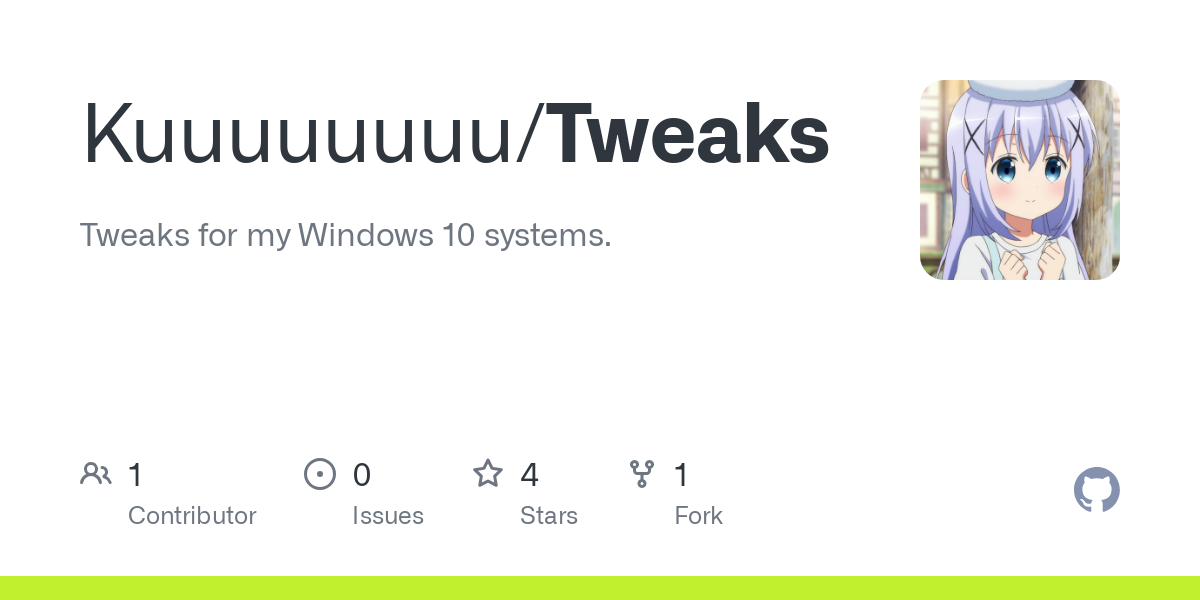
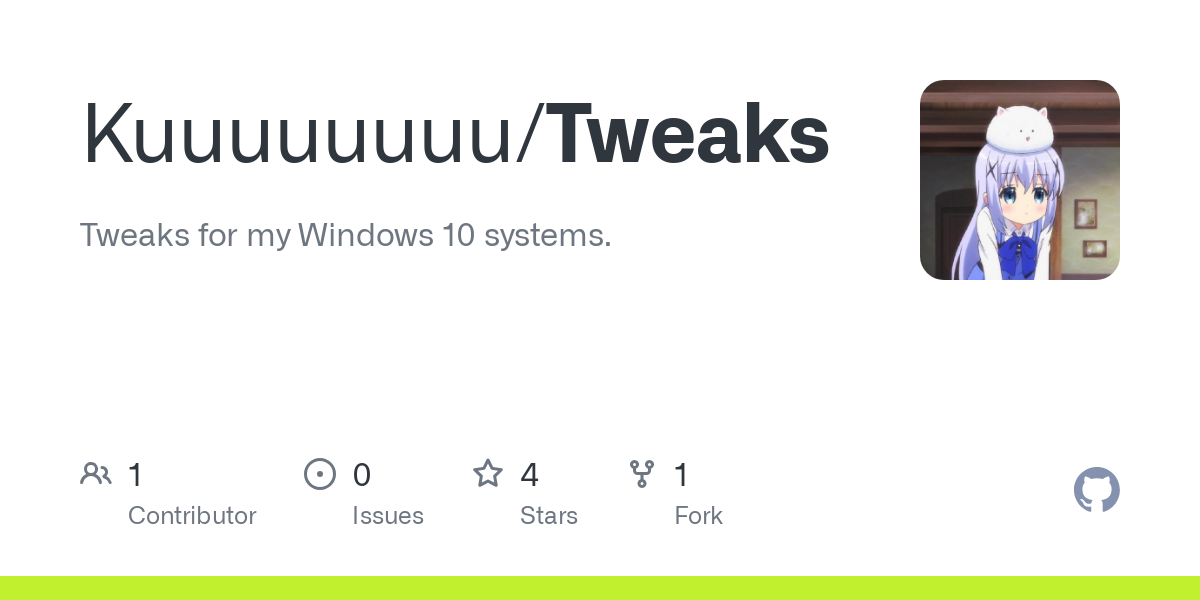
Update assets

Changed region(s): [[0.74, 0.12, 0.9558, 0.48]]

diff --git a/README.md b/README.md
@@ -4,7 +4,7 @@ Powered by Go and GitHub Actions 🚀
 
 <br/>
 
-Last Updated: 2024-10-17 04:03:01
+Last Updated: 2024-10-17 07:12:45
 
 [![Task Status](https://github.com/Kuuuuuuuu/assets/actions/workflows/main.yml/badge.svg)](https://github.com/Kuuuuuuuu/assets/actions/workflows/main.yml)
 
